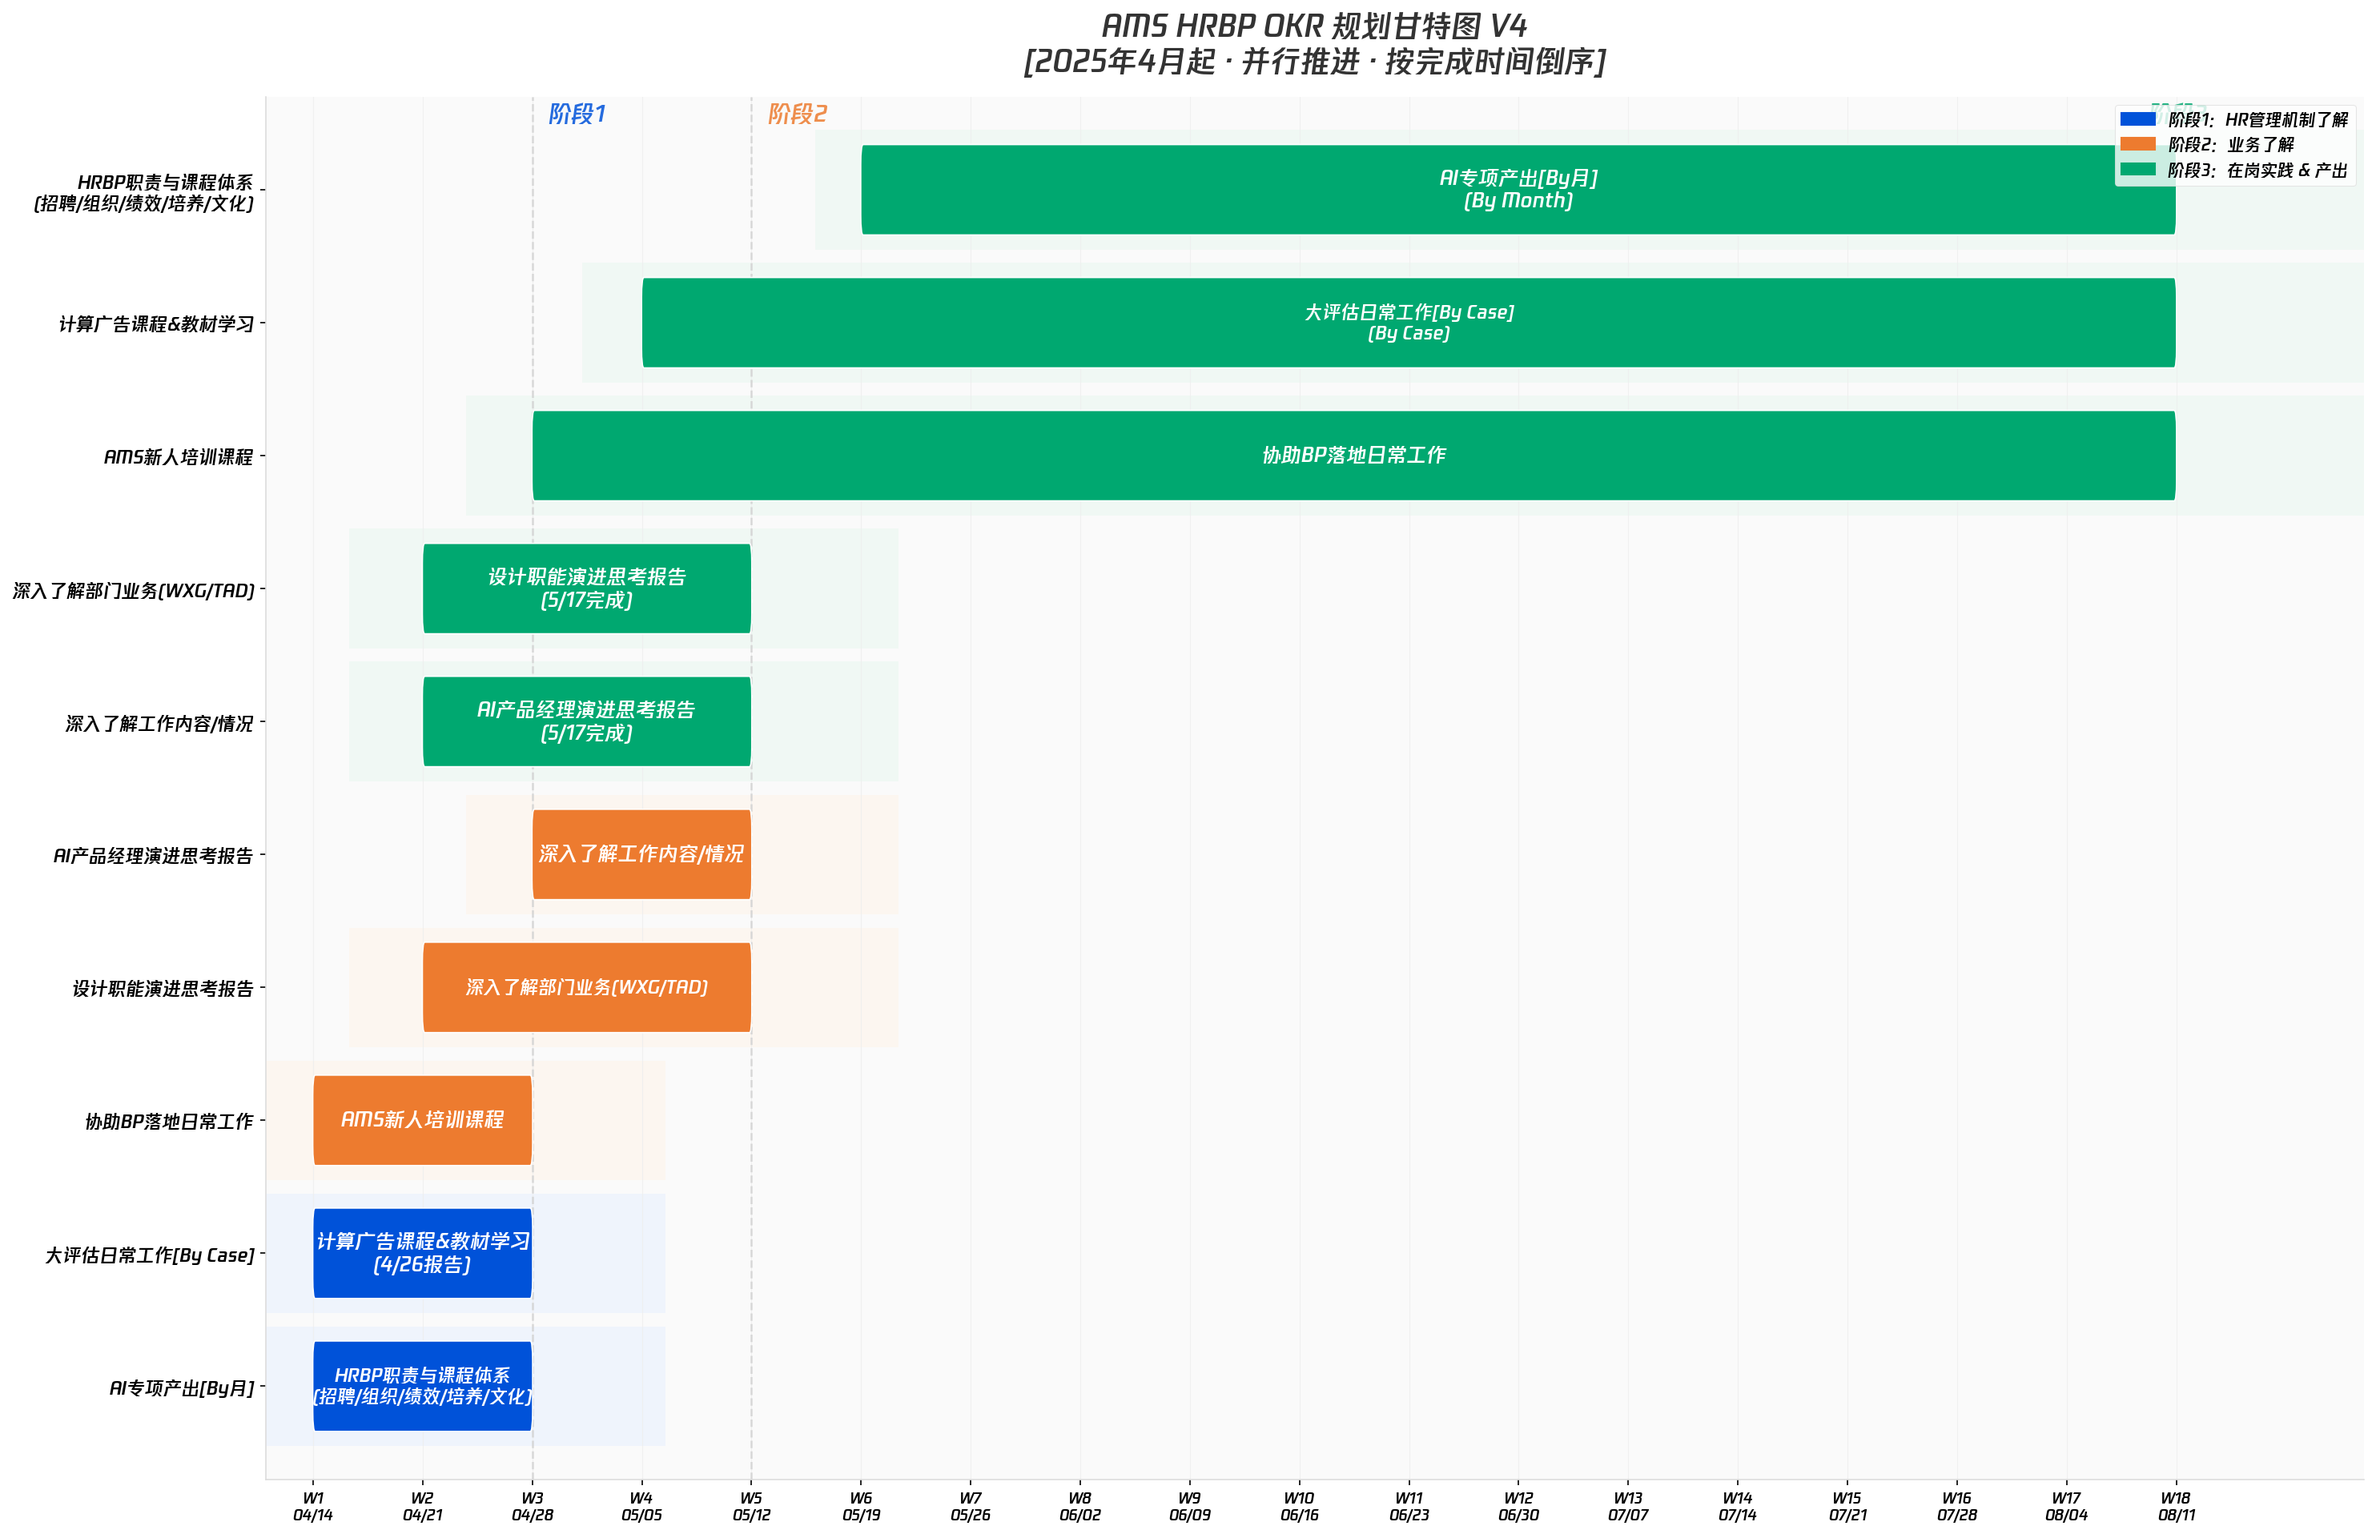
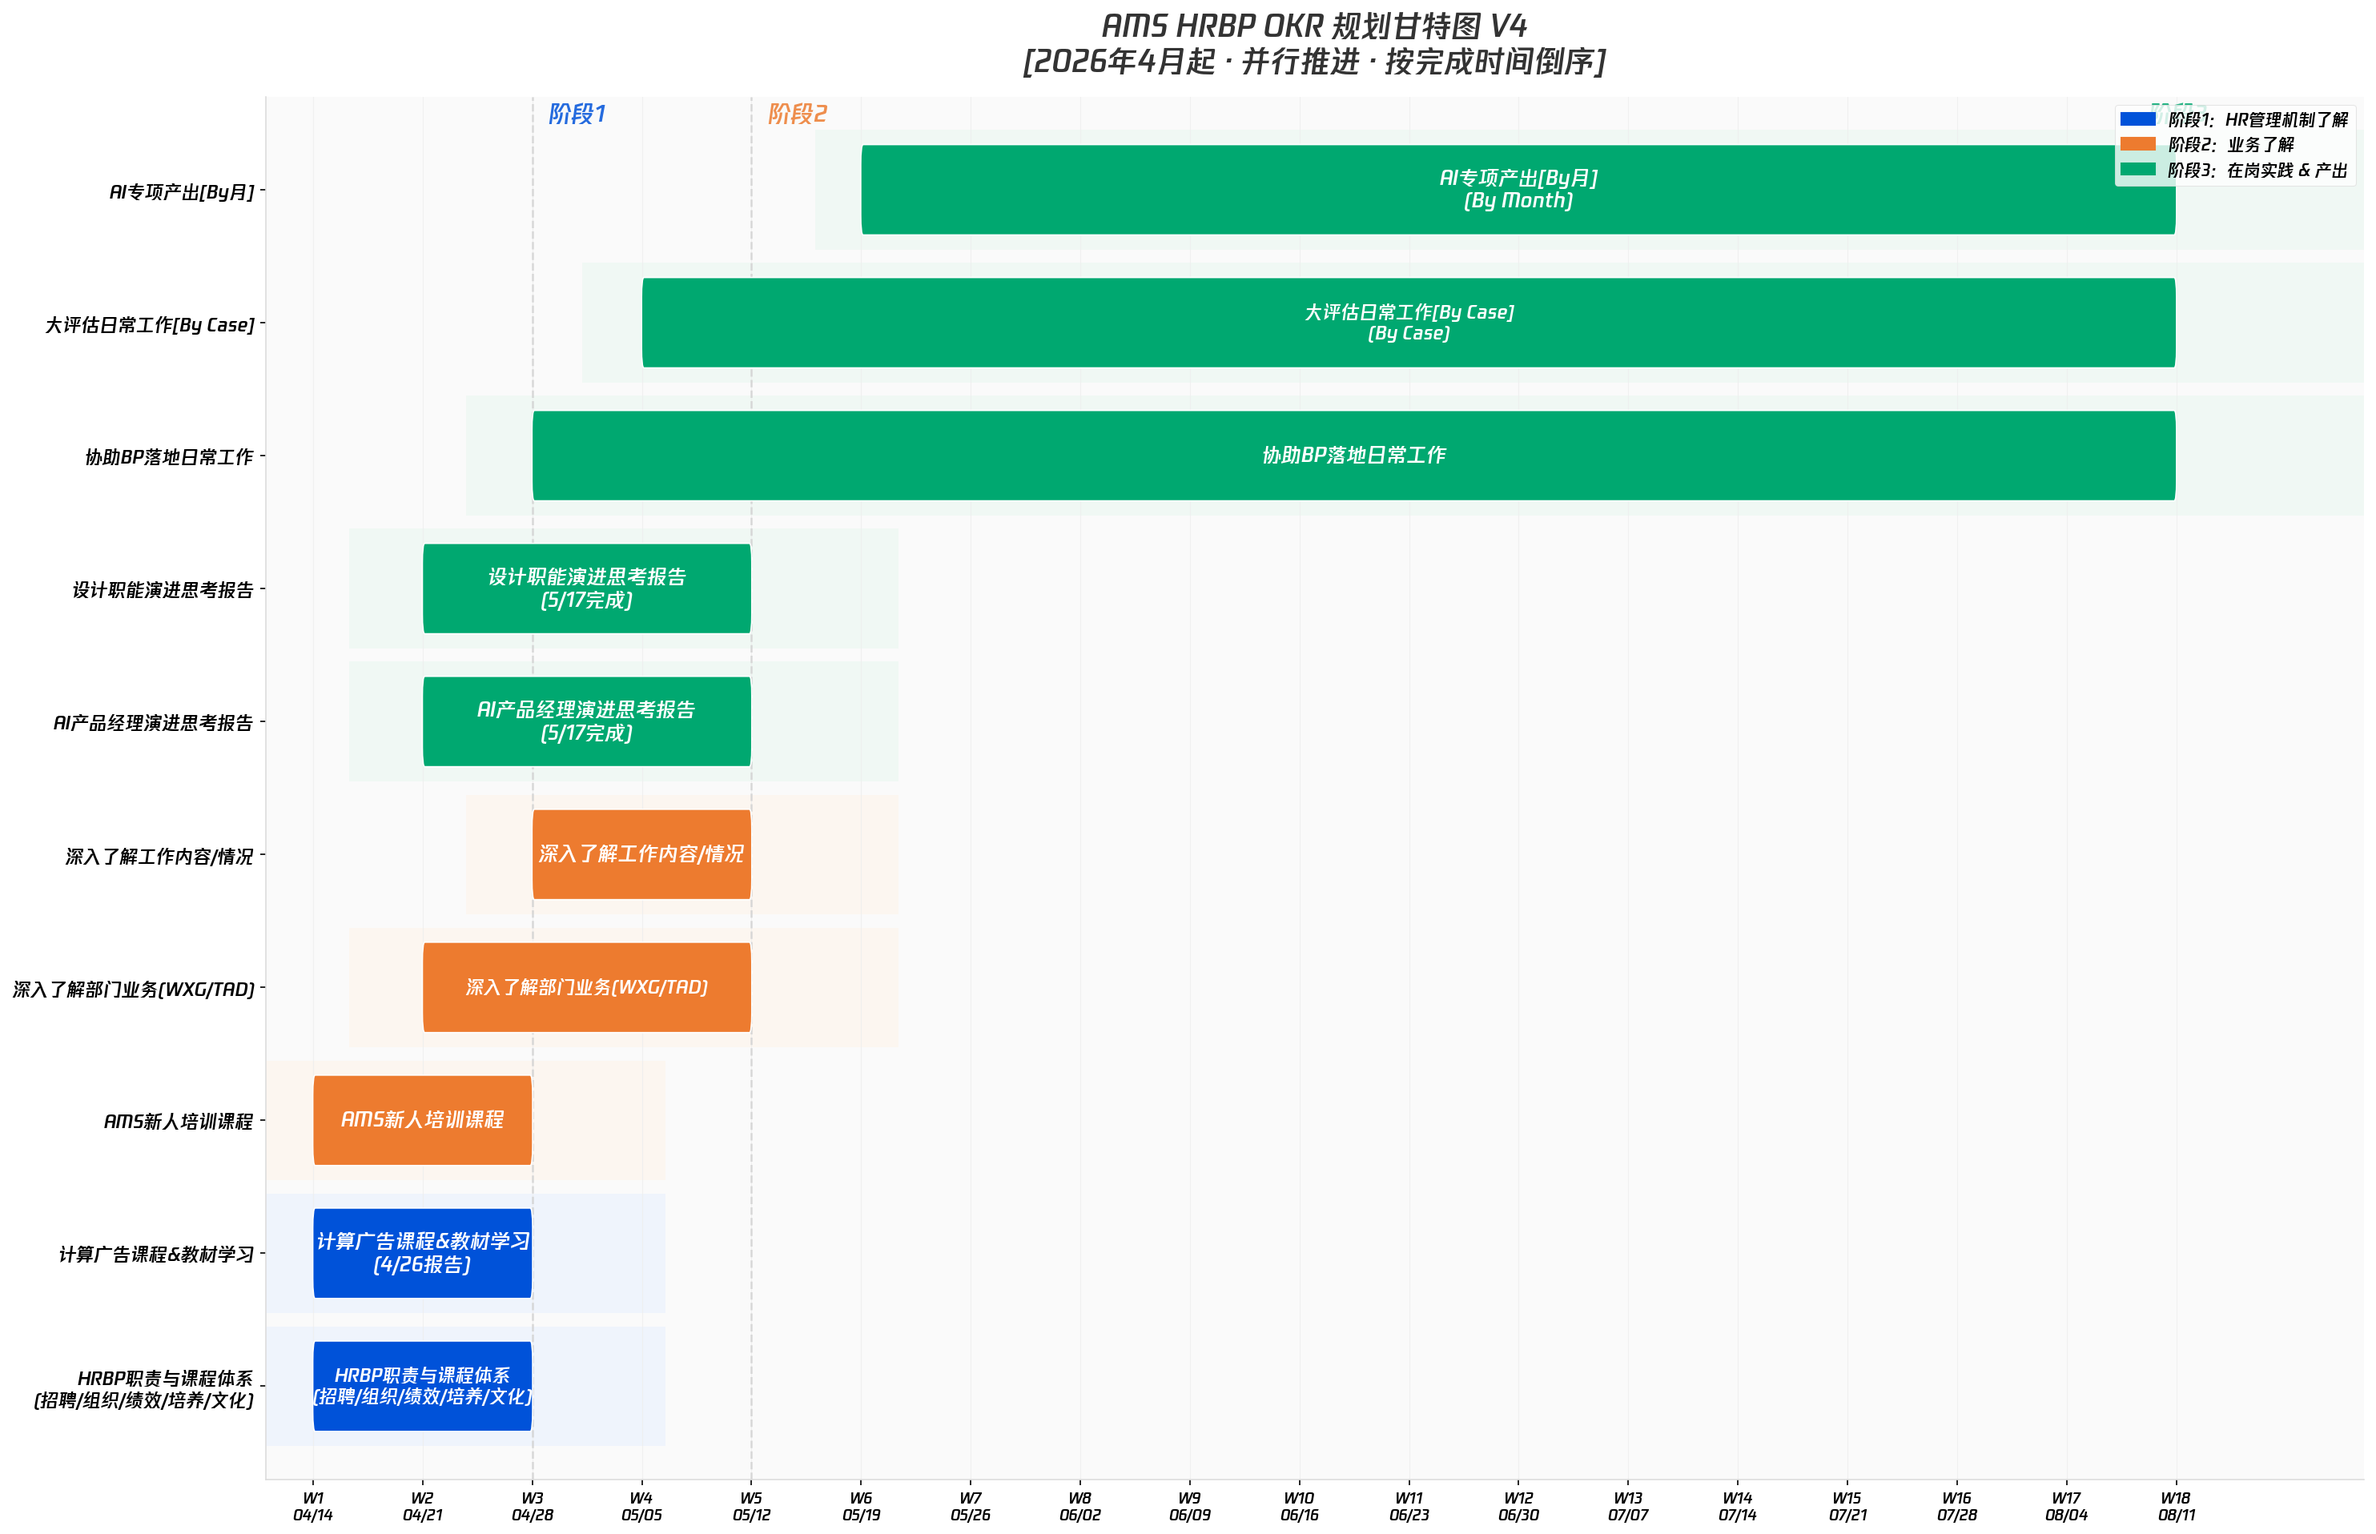
fix: 修复Y轴标签与条形图错位+修正年份2025→2026

diff --git a/gantt_chart.py b/gantt_chart.py
@@ -1,0 +1,198 @@
+# -*- coding: utf-8 -*-
+"""
+OKR甘特图 - 腾讯品牌风格
+"""
+
+import matplotlib.pyplot as plt
+import matplotlib.patches as mpatches
+from matplotlib.patches import FancyBboxPatch
+import numpy as np
+import os
+
+# ==================== 腾讯品牌配色方案 ====================
+TENCENT_BLUE = '#0052D9'
+TENCENT_BLUE_LIGHT = '#4DA1FF'
+TENCENT_BLUE_DARK = '#1A3C6E'
+TENCENT_BLUE_PALE = '#D6E8FF'
+TENCENT_ORANGE = '#FA8C16'
+TENCENT_GREEN = '#52C41A'
+TENCENT_PURPLE = '#722ED1'
+
+BG_COLOR = '#FFFFFF'
+TEXT_COLOR = '#262626'
+SUB_TEXT_COLOR = '#595959'
+GRID_COLOR = '#E8E8E8'
+
+# 设置中文字体 - 使用系统可用字体
+plt.rcParams['font.family'] = ['STHeiti', 'Songti SC', 'Heiti TC']
+plt.rcParams['axes.unicode_minus'] = False
+
+# ==================== 任务数据定义 ====================
+# 基于OKR文档的3个阶段，总时长约4个月（约17周）
+# 阶段1: 2周 | 阶段2: 2周 | 阶段3: 12-13周(约3个月)
+# 假设从第1周开始
+
+tasks = [
+    # ====== 阶段1: HR管理机制了解 (第1-2周) ======
+    {'name': '阶段1: HR管理机制了解', 'phase': 1, 'start': 0, 'duration': 2, 'color': TENCENT_BLUE, 'is_header': True},
+    {'name': '  1.1 HRBP能力要求与职责学习', 'phase': 1, 'start': 0, 'duration': 2, 'color': TENCENT_BLUE_LIGHT},
+    {'name': '  1.2 招聘及编制管理规则', 'phase': 1, 'start': 0.2, 'duration': 1.6, 'color': TENCENT_BLUE_LIGHT},
+    {'name': '  1.3 组织架构/潜龙/晋升/360评估规则', 'phase': 1, 'start': 0.3, 'duration': 1.7, 'color': TENCENT_BLUE_LIGHT},
+    {'name': '  1.4 绩效及通道管理（目标制定/考核/面谈）', 'phase': 1, 'start': 0.4, 'duration': 1.6, 'color': TENCENT_BLUE_LIGHT},
+    {'name': '  1.5 培养体系现状了解', 'phase': 1, 'start': 0.8, 'duration': 1.2, 'color': TENCENT_BLUE_LIGHT},
+    {'name': '  1.6 文化体系与荣誉激励表彰体系', 'phase': 1, 'start': 1.0, 'duration': 1.0, 'color': TENCENT_BLUE_LIGHT},
+
+    # ====== 阶段2: 业务了解 (第3-4周) ======
+    {'name': '阶段2: AMS业务了解', 'phase': 2, 'start': 2, 'duration': 2, 'color': TENCENT_ORANGE, 'is_header': True},
+    {'name': '  2.1 参加AMS新人培训课程', 'phase': 2, 'start': 2, 'duration': 1.5, 'color': '#FFB84D'},
+    {'name': '  2.2 深入了解支持部门业务及组织信息', 'phase': 2, 'start': 2.2, 'duration': 1.8, 'color': '#FFB84D'},
+    {'name': '  2.3 了解微信广告部产运/TAD业务', 'phase': 2, 'start': 2.5, 'duration': 1.5, 'color': '#FFB84D'},
+
+    # ====== 阶段3: 在岗实践与独立产出 (第5-17周, 约3个月) ======
+    {'name': '阶段3: 在岗实践、独立产出', 'phase': 3, 'start': 4, 'duration': 13, 'color': TENCENT_GREEN, 'is_header': True},
+    
+    # O1 交付物
+    {'name': '  【O1交付】广告业务学习报告', 'phase': 3, 'start': 4, 'duration': 4, 'color': '#95DE64'},
+    {'name': '  【O1交付】流量平台(WXG)学习报告', 'phase': 3, 'start': 5, 'duration': 3, 'color': '#95DE64'},
+    
+    # O2 交付物
+    {'name': '  【O2交付】AI产品经理演进思考报告', 'phase': 3, 'start': 5, 'duration': 5, 'color': '#B7EB8F'},
+    {'name': '  【O2交付】设计职能演进思考报告', 'phase': 3, 'start': 6, 'duration': 5, 'color': '#B7EB8F'},
+    {'name': '  【O2交付】大评估等日常工作交付', 'phase': 3, 'start': 4, 'duration': 12, 'color': '#BFE5E2'},  # 持续性工作
+    
+    # O3 AI专项
+    {'name': '  【O3-AI】熟悉腾讯/S3在AI应用发展', 'phase': 3, 'start': 4, 'duration': 4, 'color': TENCENT_PURPLE, 'alpha': 0.7},
+    {'name': '  【O3-AI】选取HR场景+AI流程再造探索', 'phase': 3, 'start': 7, 'duration': 6, 'color': '#B995F0', 'alpha': 0.7},
+    {'name': '  【O3-AI】AI专项产出交付', 'phase': 3, 'start': 12, 'duration': 4, 'color': '#D5BBF3', 'alpha': 0.8},
+    
+    # 日常BP工作
+    {'name': '  协助BP落地业务部门相关工作', 'phase': 3, 'start': 4, 'duration': 12, 'color': '#BAE7FF'},  # 持续性
+]
+
+# ==================== 绑制甘特图 ====================
+fig, ax = plt.subplots(figsize=(18, 14), facecolor=BG_COLOR)
+ax.set_facecolor(BG_COLOR)
+
+total_weeks = 17  # 总共约17周
+
+# Y轴：任务列表（反转顺序，让第一个任务在上面）
+y_positions = list(range(len(tasks), 0, -1))
+task_names = [t['name'] for t in tasks]
+
+# 绘制每个任务条
+for i, task in enumerate(tasks):
+    y = len(tasks) - i - 1
+    start = task['start']
+    duration = task['duration']
+    color = task.get('color', TENCENT_BLUE)
+    alpha = task.get('alpha', 1.0)
+    is_header = task.get('is_header', False)
+    
+    if is_header:
+        # 阶段标题行 - 用粗体条形
+        bar_height = 0.75
+        rect = FancyBboxPatch(
+            (start, y - bar_height / 2), duration, bar_height,
+            boxstyle="round,pad=0.02,rounding_size=0.15",
+            facecolor=color, edgecolor='none', alpha=0.9,
+            linewidth=0
+        )
+        ax.add_patch(rect)
+        # 白色文字
+        ax.text(start + duration / 2, y, f"{int(duration)}周",
+                ha='center', va='center', fontsize=10, fontweight='bold',
+                color='white')
+    else:
+        # 子任务条形
+        bar_height = 0.55
+        # 渐变效果用透明度模拟
+        rect = FancyBboxPatch(
+            (start, y - bar_height / 2), duration, bar_height,
+            boxstyle="round,pad=0.02,rounding_size=0.1",
+            facecolor=color, edgecolor='none', alpha=alpha,
+            linewidth=0
+        )
+        ax.add_patch(rect)
+        
+        # 在长条上显示周数
+        if duration >= 2:
+            ax.text(start + duration / 2, y, f"{duration}w",
+                    ha='center', va='center', fontsize=8, fontweight='bold',
+                    color=TENCENT_BLUE_DARK if alpha > 0.75 else TEXT_COLOR)
+
+# ==================== 坐标轴设置 ====================
+# X轴：周数
+ax.set_xlim(-0.5, total_weeks + 0.5)
+ax.set_ylim(-0.6, len(tasks))
+
+# X轴标签
+weeks = list(range(0, total_weeks + 1))
+week_labels = [f'W{w}' for w in weeks]
+ax.set_xticks(weeks)
+ax.set_xticklabels(week_labels, fontsize=10, color=SUB_TEXT_COLOR)
+
+# Y轴标签（任务名称）
+ax.set_yticks(list(range(len(tasks))))
+ytick_labels = ax.set_yticklabels(task_names, fontsize=10.5, color=TEXT_COLOR)
+for i, t in enumerate(tasks):
+    if t.get('is_header'):
+        ytick_labels[i].set_fontweight('bold')
+
+# 网格线（仅垂直）
+for w in range(total_weeks + 1):
+    ax.axvline(x=w, color=GRID_COLOR, linewidth=0.5, zorder=0)
+
+# 阶段分隔线（虚线）
+phase_lines = [(2, '第2周末\n阶段1→2'), (4, '第4周末\n阶段2→3')]
+for x, label in phase_lines:
+    ax.axvline(x=x, color=TENCENT_BLUE_DARK, linewidth=1.5, linestyle='--', alpha=0.5, zorder=1)
+    ax.text(x, len(tasks) - 0.3, label, ha='center', va='bottom', fontsize=8,
+            color=TENCENT_BLUE_DARK, style='italic',
+            bbox=dict(boxstyle='round,pad=0.3', facecolor=TENCENT_BLUE_PALE, edgecolor='none', alpha=0.6))
+
+# 标题
+ax.set_title('AMS HRBP OKR 具体规划时间线甘特图\n（总周期：约17周 / 约4个月）',
+             fontsize=18, fontweight='bold', color=TENCENT_BLUE_DARK, pad=20)
+
+ax.set_xlabel('时间线（周）', fontsize=12, color=SUB_TEXT_COLOR, labelpad=10)
+ax.set_ylabel('任务清单', fontsize=12, color=SUB_TEXT_COLOR, labelpad=10)
+
+# 移除边框
+for spine in ['top', 'right']:
+    ax.spines[spine].set_visible(False)
+for spine in ['left', 'bottom']:
+    ax.spines[spine].set_color(GRID_COLOR)
+
+# ==================== 图例 ====================
+legend_elements = [
+    mpatches.Patch(facecolor=TENCENT_BLUE, edgecolor='none', label='阶段1: HR管理机制了解（W1-W2, 2周）'),
+    mpatches.Patch(facecolor=TENCENT_ORANGE, edgecolor='none', label='阶段2: AMS业务了解（W3-W4, 2周）'),
+    mpatches.Patch(facecolor=TENCENT_GREEN, edgecolor='none', label='阶段3: 在岗实践、独立产出（W5-W17, ~3个月）'),
+    mpatches.Patch(facecolor=TENCENT_PURPLE, edgecolor='none', alpha=0.7, label='O3-HR AI任务探索落地'),
+]
+leg = ax.legend(handles=legend_elements, loc='upper right', fontsize=9.5,
+                frameon=True, facecolor='#FAFAFA', edgecolor=GRID_COLOR,
+                bbox_to_anchor=(1.0, 1.0))
+
+# ==================== 底部里程碑标注 ====================
+milestones = [
+    (2, '阶段1完成', TENCENT_BLUE),
+    (4, '阶段2完成', TENCENT_ORANGE),
+    (8, 'O1/O2报告初稿', TENCENT_GREEN),
+    (12, 'AI流程再造方案', TENCENT_PURPLE),
+    (16, '全部交付完成', TENCENT_BLUE_DARK),
+]
+
+for mx, ml, mc in milestones:
+    ax.plot(mx, -0.35, marker='v', markersize=10, color=mc, zorder=5)
+    ax.text(mx, -0.48, ml, ha='center', va='top', fontsize=8, color=mc, fontweight='bold')
+
+# 调整布局
+plt.tight_layout()
+plt.subplots_adjust(bottom=0.08)
+
+# 保存
+output_path = '/Users/mengjiachen/WorkBuddy/20260414135125/OKR_Gantt_Chart.png'
+plt.savefig(output_path, dpi=200, bbox_inches='tight', 
+            facecolor=BG_COLOR, edgecolor='none')
+print(f"甘特图已保存至: {output_path}")

diff --git a/gantt_v4.py b/gantt_v4.py
@@ -117,8 +117,9 @@ ax.set_xticklabels(week_labels, fontproperties=tencent_font, fontsize=9)
 ax.set_xlim(-3, WEEKS_TOTAL * 7 + 5)
 
 # ─── 6. Y轴：任务名（左侧显示完整） ──────────────────
-y_labels = [t[0] for t in tasks_data]  # Y轴标签
-y_positions = list(range(n_tasks))
+# 标签也要倒序，与条形的 y=n_tasks-1-i 对应
+y_labels = [t[0] for t in tasks_data]  # 数据已按结束时间倒序
+y_positions = [n_tasks - 1 - i for i in range(n_tasks)]  # 倒序Y坐标，匹配条形位置
 ax.set_yticks(y_positions)
 ax.set_yticklabels(y_labels, fontproperties=tencent_font, fontsize=11)
 ax.set_ylim(-0.7, n_tasks - 0.3)
@@ -155,7 +156,7 @@ leg.get_frame().set_linewidth(0.5)
 # ─── 9. 标题 & 样式微调 ───────────────────────────────
 ax.set_title(
     'AMS HRBP OKR 规划甘特图 V4\n'
-    '[2025年4月起 · 并行推进 · 按完成时间倒序]',
+    '[2026年4月起 · 并行推进 · 按完成时间倒序]',
     fontproperties=tencent_font, fontsize=18, fontweight='bold', 
     pad=16, color='#333333'
 )

diff --git a/.workbuddy/memory/2026-04-14.md b/.workbuddy/memory/2026-04-14.md
@@ -1,0 +1,20 @@
+# 2026-04-14 工作日志
+
+## OKR甘特图生成
+- 根据用户提供的 O1.docx（AMS HRBP OKR文档），提取了3个阶段共20+项任务的规划
+- 生成了腾讯品牌风格甘特图：`/Users/mengjiachen/WorkBuddy/20260414135125/OKR_Gantt_Chart.png`
+- 时间线：阶段1(2周)→阶段2(2周)→阶段3(~3个月)，总周期约17周
+- 配色方案：腾讯蓝(#0052D9)为主色，橙色/绿色/紫色区分不同阶段和OKR交付物
+
+## GitHub 推送
+- 仓库地址：https://github.com/jcmeng2002/okr-gantt-chart（公开）
+- GitHub 用户名：jcmeng2002
+- Git 全局配置：user.name=mengjiachen, user.email=1679312066@qq.com
+- 已完成 git init + commit + push 到 main 分支
+
+## OKR甘特图V2更新（下午）
+- 用户反馈V1字体不是腾讯体，且需要基于第二张表格重画
+- 找到本地字体：`~/Library/Fonts/TencentSans-W7.otf`（同时存在于 `~/Desktop/腾讯体/` 目录）
+- 基于第二张表格的具体时间节奏重新绘制：阶段1(公司课程/招聘/组织架构/绩效通道/培养文化) → 阶段2(计算广告课程/AMS培训/部门业务) → 阶段3(BP日常/AI产品经理演进/设计演进/AI流程再造)
+- 关键日期：4月26日(报告1) / 5月10日(阶段2结束) / 5月17日(O2两份报告) / AI专项by月产出
+- 已推送到GitHub：`OKR_Gantt_Chart_v2.png` + `gantt_v2.py`
